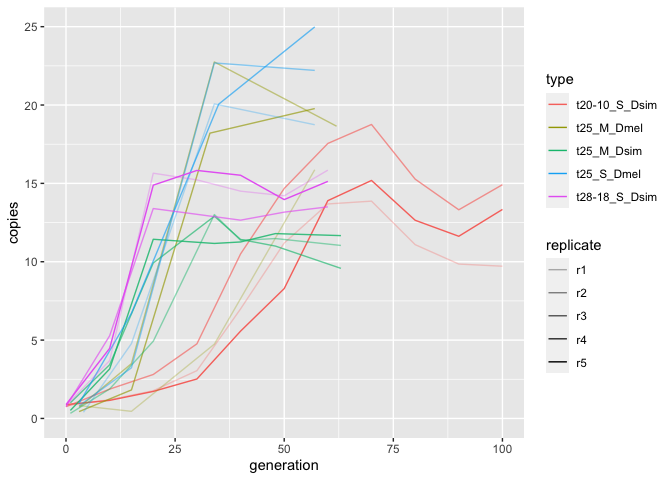
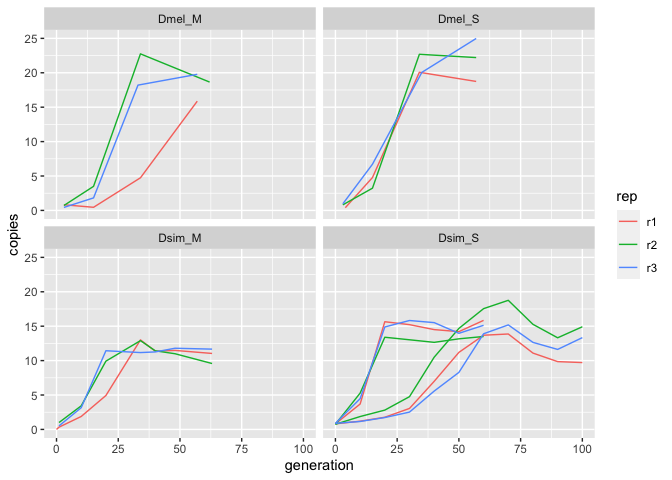
new preliminary version

diff --git a/rmd-files/TE_abundance.md b/rmd-files/TE_abundance.md
@@ -23,11 +23,31 @@ nohup sh -c 'for i in Dsim*bam;do cat /Volumes/Temp2/filip/2040A/ref/TEnames.txt
 ###note that those loops are very time consuming. If this becomes a bottleneck, I can write a storm script that submits multiple commands to parallelize the process
 ##summary for the P-element:
 for i in *PPI251;do awk '$2=="insertions/haploid:"' $i|awk -v a="$i" '{print $3,a}';done|sed 's/.sort.bam.PPI251//g'|awk -F "_" '{print $1,$2,$3,$4,$5}' > forR/PPI241-copynr.forR
+#batch2:
+cd /Volumes/Temp2/filip/2040A/data/batch2/fastq
+nohup sh -c 'for i in *.fq.gz;do n=${i%.fq.gz};bwa bwasw -t 20 /Volumes/Temp2/filip/2040A/ref/TEs-scg/teseqs-3scg-dmel.fasta $i|samtools sort -@ 4 -m 3G - > /Volumes/Temp3/filip/2040A/map/TEs_3scg/batch2/${n}.sort.bam;done' &
+cat /Volumes/Temp2/filip/2040A/data/batch2/metadata_batch2.txt|while read b n;do ln -s /Volumes/Temp3/filip/2040A/map/TEs_3scg/batch2/${b}.fastq.sort.bam /Volumes/Temp2/filip/2040A/results/deviate/batch2/${n}.sort.bam;done
+/Volumes/Temp2/filip/2040A/results/deviate/batch2
+nohup sh -c 'for i in *bam;do deviaTE_analyse --input $i --single_copy_genes Dmel_tj,Dmel_rpl32,Dmel_rhi --library /Volumes/Temp2/filip/2040A/ref/TEs-scg/teseqs-3scg-dmel.fasta --family PPI251;done'&
 ```
 
 ``` r
 library(ggplot2)
+library(dplyr)
+```
 
+    ## 
+    ## Attaching package: 'dplyr'
+
+    ## The following objects are masked from 'package:stats':
+    ## 
+    ##     filter, lag
+
+    ## The following objects are masked from 'package:base':
+    ## 
+    ##     intersect, setdiff, setequal, union
+
+``` r
 t<-read.table("/Volumes/Temp2/filip/2040A/results/deviate/forR/PPI241-copynr.forR")
 t2<-read.table("/Volumes/Temp2/filip/2040A/results/deviate/batch2/forR/PPI251-copynr.forR")
 t<-rbind(t,t2)
@@ -51,13 +71,17 @@ t<-rbind(baco,baho,t)
 
 t$temperature<-gsub("t","",t$temperature)
 t$generation<-as.numeric(gsub("g","",t$generation))
+t$type1<-paste(t$replicate,t$type,sep="_")
+t$type2<-paste(t$species,t$variant,sep="_")
 
-g<-ggplot(t, aes(x=generation, y=copies,color=type,alpha=replicate)) + geom_line()+scale_alpha_discrete(range = c(0.3, 1))
-```
 
-    ## Warning: Using alpha for a discrete variable is not advised.
+##consistent replicate labels
+repl<-read.table("/Volumes/Temp2/filip/2040A/ref/replicate_labels.txt")
+names(repl)<-c("id","rep")
+t$id<-paste(t$species,t$variant,t$replicate,sep="_")
+t<-left_join(t,repl,by="id")
 
-``` r
+g<-ggplot(t, aes(x=generation, y=copies,color=rep,by=type)) + geom_line()+facet_wrap(~type2)#,color=type,alpha=replicate
 plot(g)
 ```
 
